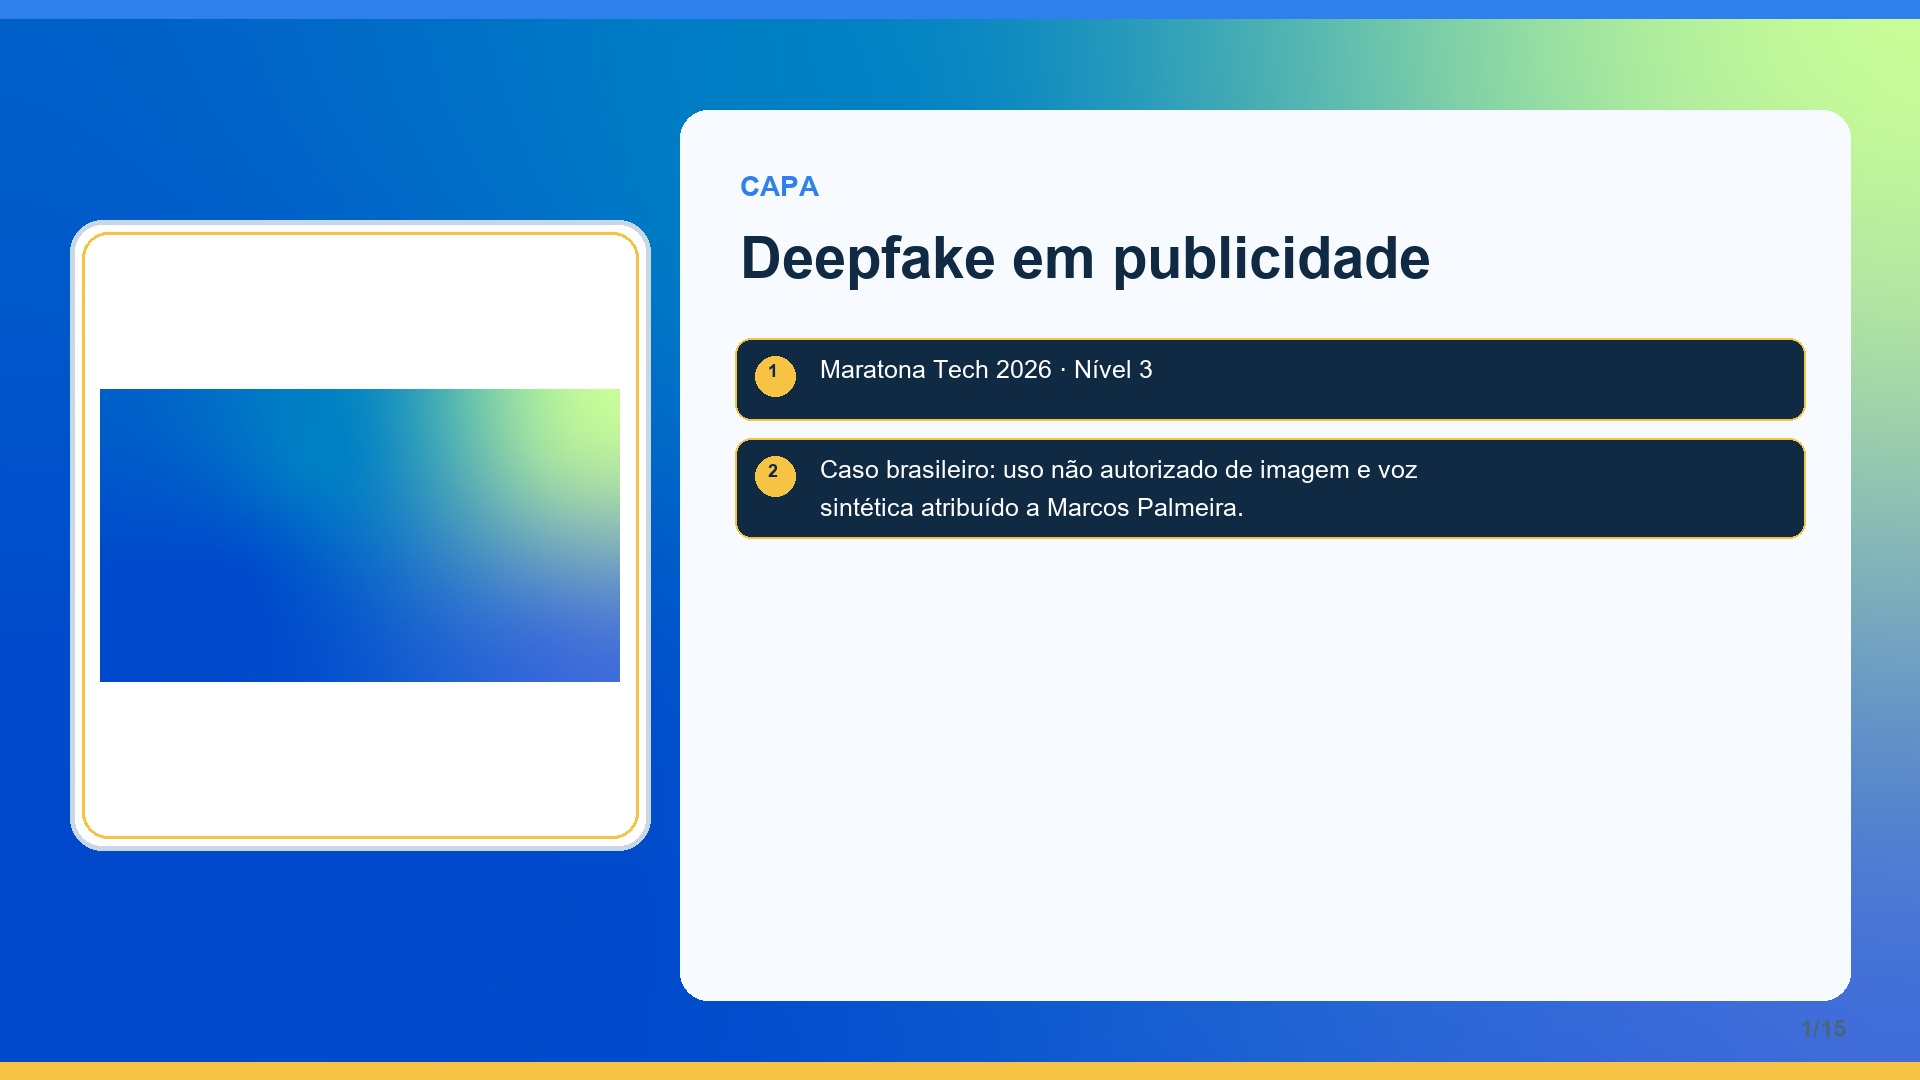
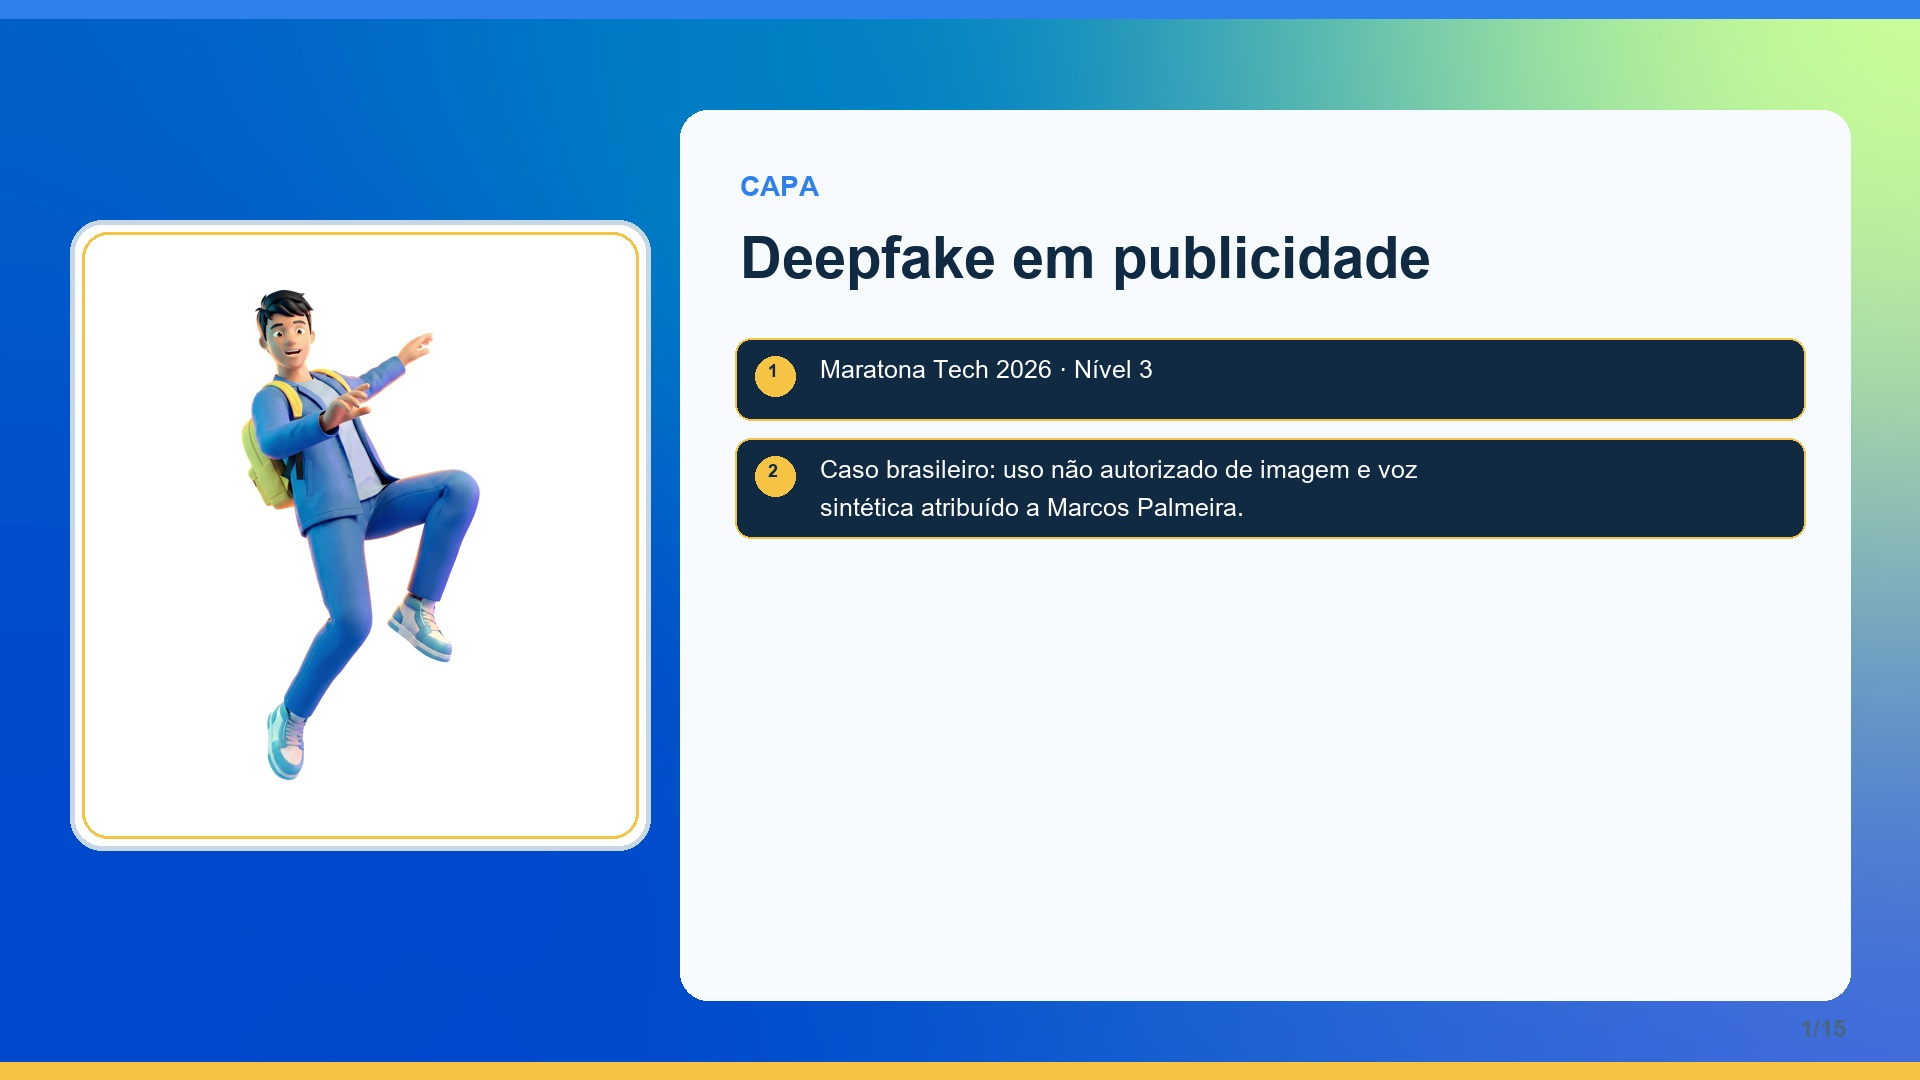
fix: substituir imagem duplicada da capa

Changed region(s): [[0.0312, 0.275, 0.3438, 0.7333]]

diff --git a/scripts/generate_n3_jpgs.py b/scripts/generate_n3_jpgs.py
@@ -4,7 +4,7 @@ import textwrap
 R=Path(__file__).parents[1]; O=R/'slides'; A=R/'assets'; O.mkdir(exist_ok=True)
 F='/Windows/Fonts/arial.ttf'; B='/Windows/Fonts/arialbd.ttf'; font=lambda n,b=False:ImageFont.truetype(B if b else F,n)
 S=[
-('CAPA','Deepfake em publicidade',['Maratona Tech 2026 · Nível 3','Caso brasileiro: uso não autorizado de imagem e voz sintética atribuído a Marcos Palmeira.'],'template-capa-002.png'),
+('CAPA','Deepfake em publicidade',['Maratona Tech 2026 · Nível 3','Caso brasileiro: uso não autorizado de imagem e voz sintética atribuído a Marcos Palmeira.'],'template-icones-ilustracoes-007.png'),
 ('PROBLEMA DIGITAL','Qual é o problema?',['Publicidade digital pode simular o endosso de uma pessoa real usando IA.','O caso circulou no Instagram e promovia um kit de ferramentas.','Relevância: imagem, voz, confiança e possível pagamento são envolvidos.'],'template-icones-ilustracoes-029.png'),
 ('ARTEFATO DIGITAL','O conteúdo analisado',['Reconstituição esquemática baseada na reportagem: vídeo com imagem prévia do ator + voz sintética + oferta comercial.','A reportagem da CNN Brasil é a evidência disponível; o arquivo original do anúncio não foi recuperado.','Não é possível afirmar hash, metadados, autoria ou perícia quadro a quadro.'],'visual-deepfake-cc-by-sa-2.0.jpg'),
 ('PERFIL PROFISSIONAL','Quem pode ajudar?',['Jornalista de verificação e pesquisador de segurança digital: localizam a origem, comparam fontes, preservam evidências e explicam limites.','A atuação combina comunicação, pensamento computacional, proteção de dados e responsabilidade pública.'],'template-icones-ilustracoes-007.png'),
